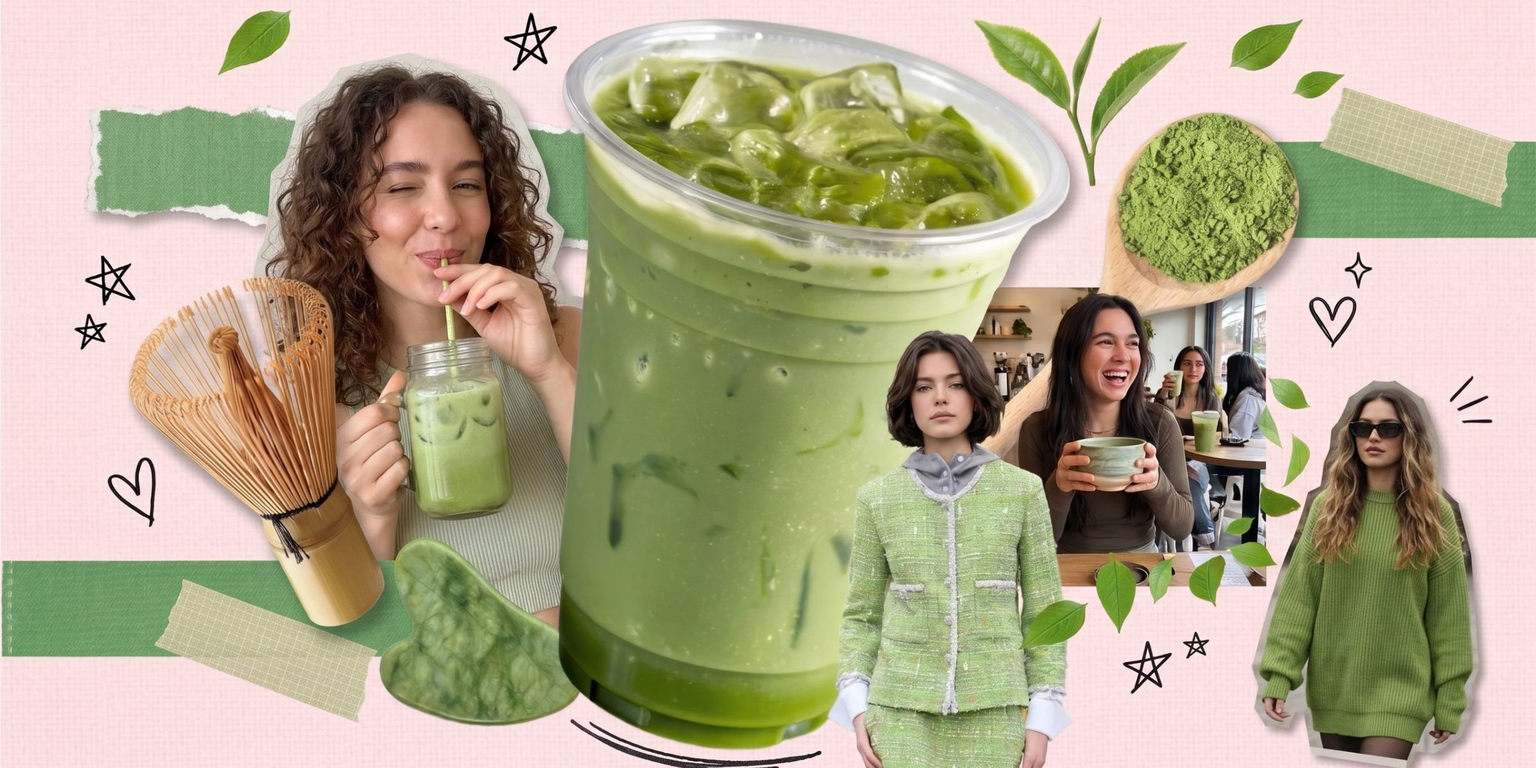
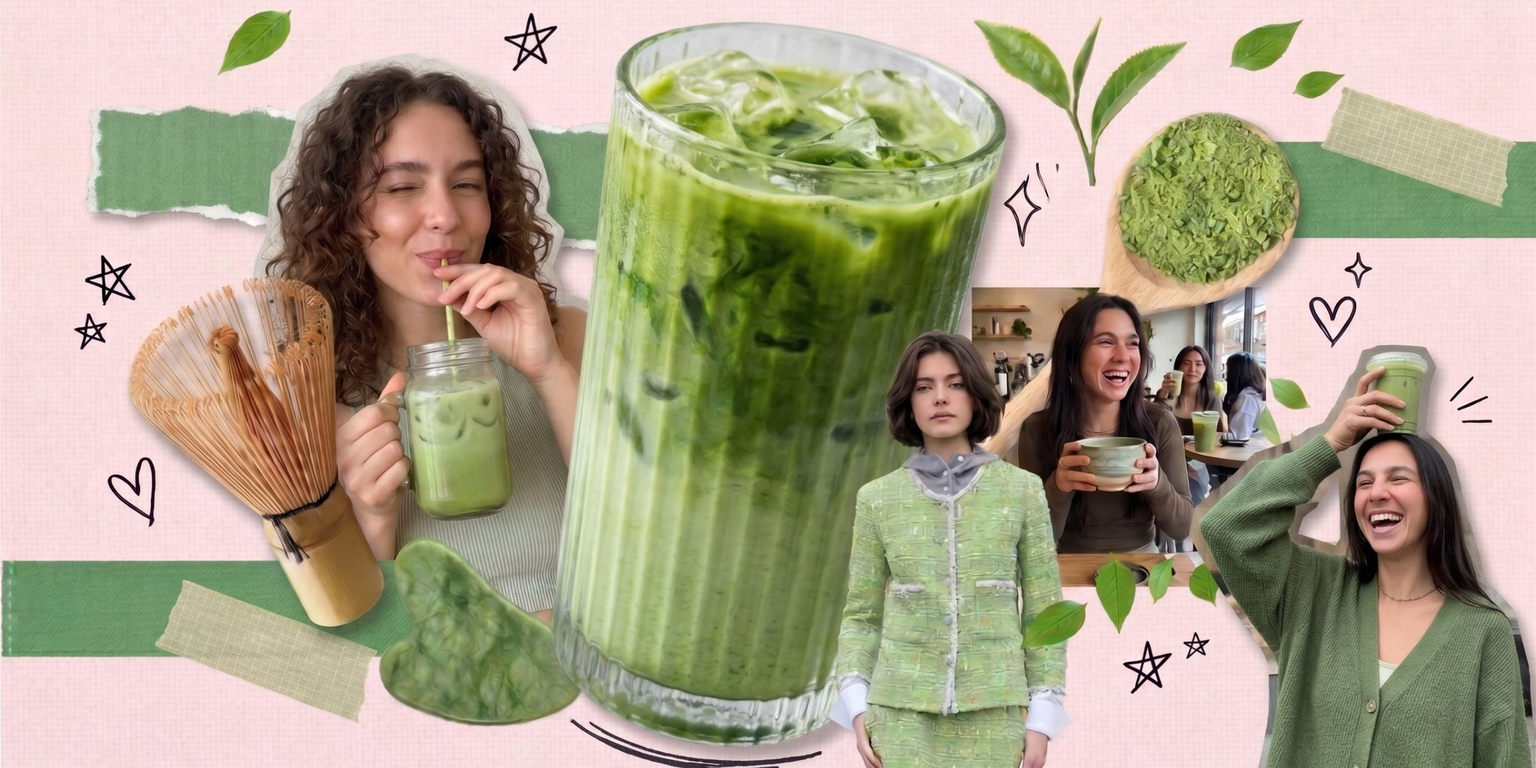
Hero: new collage, responsive WebP (1200/2400) with JPG fallback
Claude-Session: https://claude.ai/code/session_01Qh86yRCwVQY8a1FUqiiqMt

diff --git a/site/index.html b/site/index.html
@@ -40,7 +40,7 @@
   <div class="photo-wrap">
     <div class="photo">
       <!-- IMG-01 · Hero · 2:1 -->
-      <img src="/images/img-01-hero.jpg" alt="Collage of young women enjoying iced matcha, with a whisk, tea leaves and matcha powder on a pink background" width="2400" height="1200" fetchpriority="high">
+      <picture><source type="image/webp" srcset="/images/img-01-hero-1200.webp 1200w, /images/img-01-hero.webp 2400w" sizes="100vw"><img src="/images/img-01-hero.jpg" srcset="/images/img-01-hero-1200.jpg 1200w, /images/img-01-hero.jpg 2400w" sizes="100vw" alt="Collage of young women enjoying iced matcha, with a whisk, tea leaves and matcha powder on a pink background" width="2400" height="1200" fetchpriority="high"></picture>
     </div>
   </div>
 

diff --git a/site/styles.css b/site/styles.css
@@ -44,6 +44,7 @@ p{margin:0;text-wrap:pretty}
 .frame-square{aspect-ratio:1/1}
 .frame-43{aspect-ratio:4/3;margin-bottom:20px}
 .band{width:100%;aspect-ratio:21/9;min-height:260px;background:var(--frame);overflow:hidden}
+.photo picture{display:block;width:100%;height:100%}
 .photo img,.frame img,.band img{width:100%;height:100%;object-fit:cover;display:block}
 
 /* Stats */
